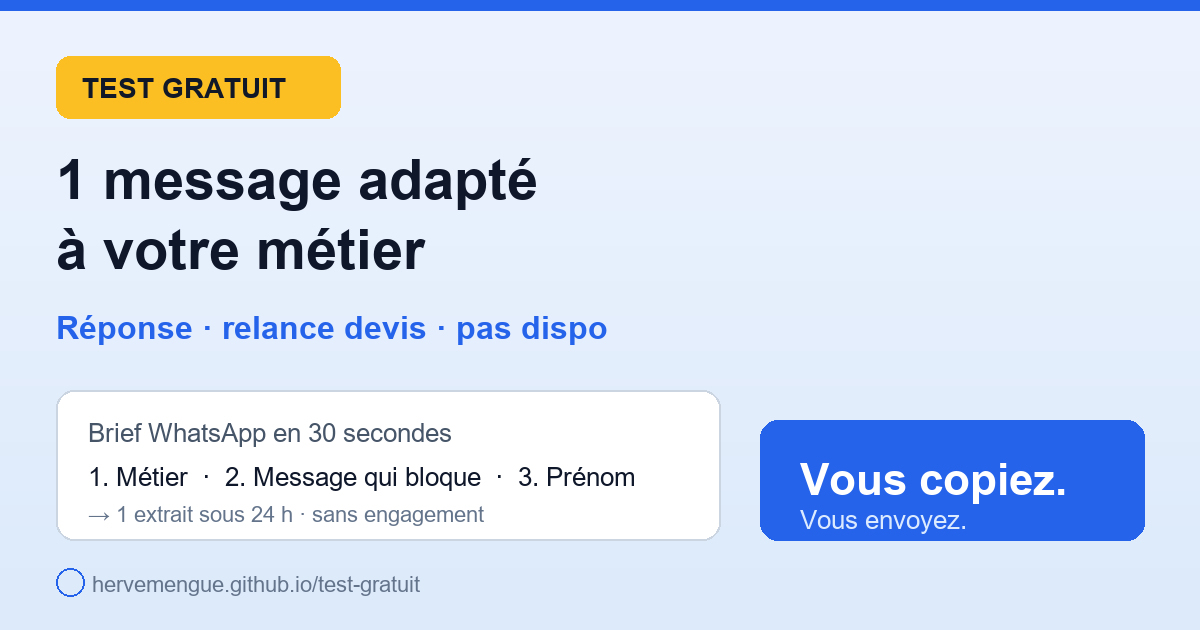
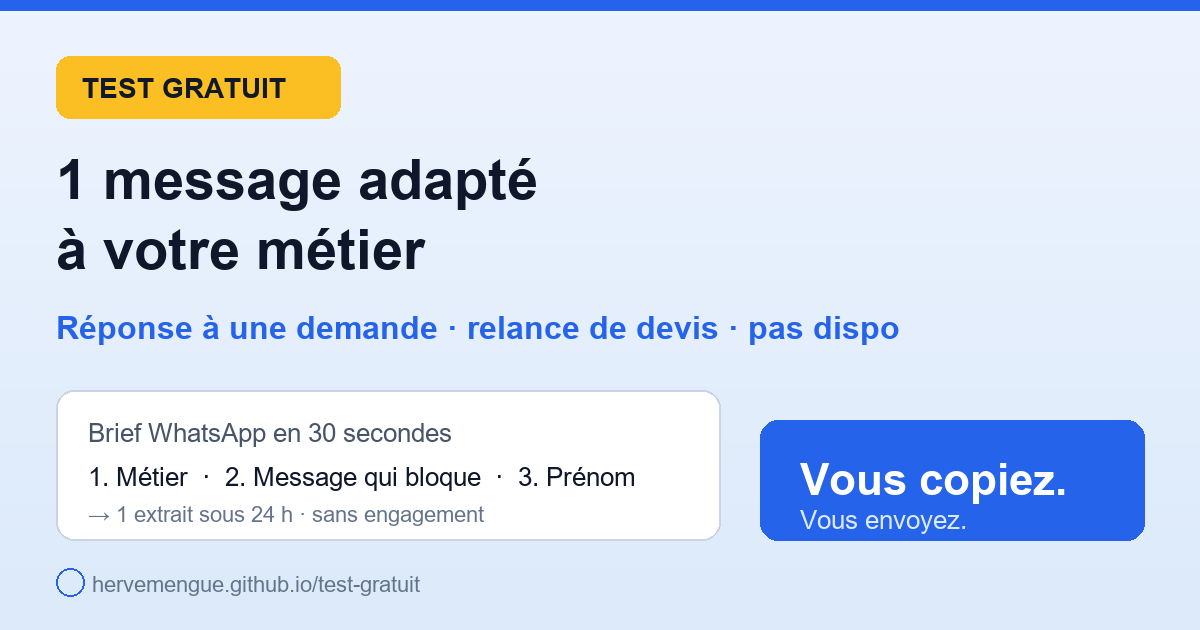
SEO Google: meta og/twitter, pages metiers, demos, GBP-ready vocabulaire.
Relance de devis et reponse a une demande de devis partout (mentions, relance page, og image).

Changed region(s): [[0.1542, 0.5127, 0.7708, 0.5429]]

diff --git a/relance-devis-sans-reponse-artisan.html b/relance-devis-sans-reponse-artisan.html
@@ -10,10 +10,10 @@
     gtag('js', new Date());
     gtag('config', 'G-MN5ZZ8T2Q3');
   </script>
-  <title>Relancer un devis sans réponse — extrait artisan WhatsApp | France</title>
-  <meta name="description" content="Devis envoyé, pas de réponse ? Quand relancer, quoi éviter, et un extrait illustratif. Un exemple parmi tant d'autres — pack adapté après brief. France.">
+  <title>Relance de devis sans réponse — extrait artisan WhatsApp | France</title>
+  <meta name="description" content="Devis chiffré envoyé, pas de réponse ? Quand faire une relance de devis, quoi éviter, et un extrait illustratif. Pack adapté après brief. France.">
   <link rel="canonical" href="https://hervemengue.github.io/landing-herve/relance-devis-sans-reponse-artisan.html">
-  <meta property="og:title" content="Relancer un devis sans réponse — artisan">
+  <meta property="og:title" content="Relance de devis sans réponse — artisan">
   <meta property="og:description" content="Extrait de relance de devis — pas toute votre bibliothèque de messages.">
   <meta property="og:url" content="https://hervemengue.github.io/landing-herve/relance-devis-sans-reponse-artisan.html">
   <meta property="og:locale" content="fr_FR">
@@ -32,7 +32,7 @@
   {
     "@context": "https://schema.org",
     "@type": "Article",
-    "headline": "Relancer un devis sans réponse — artisan",
+    "headline": "Relance de devis sans réponse — artisan",
     "description": "Extrait illustratif pour relancer un client après envoi du devis.",
     "inLanguage": "fr-FR",
     "author": { "@type": "Person", "name": "Hervé Mengue" }

diff --git a/index.html b/index.html
@@ -16,7 +16,7 @@
   <meta property="og:type" content="website">
   <meta property="og:locale" content="fr_FR">
   <meta property="og:title" content="Ce soir vous savez quoi répondre — pack 49 € | Hervé">
-  <meta property="og:description" content="Indépendants et TPE — tous corps de métier : moins de charge sur les messages clients. Avant/après, pack en 24 h. Vous copiez, vous envoyez — pas de bot ni promesse magique.">
+  <meta property="og:description" content="Messages WhatsApp prêts : réponse à une demande de devis, relance de devis, pas dispo. Pack 5 textes en 24 h. Vous copiez, vous envoyez — pas de bot.">
   <meta property="og:url" content="https://hervemengue.github.io/landing-herve/">
   <meta property="og:site_name" content="Hervé — messages clients indépendants &amp; TPE">
   <meta property="og:image" content="https://hervemengue.github.io/landing-herve/og-image.png">
@@ -25,7 +25,7 @@
   <meta property="og:image:alt" content="Ce soir vous savez quoi répondre — messages clients pour indépendants et TPE, pack 49 euros">
   <meta name="twitter:card" content="summary_large_image">
   <meta name="twitter:title" content="Ce soir vous savez quoi répondre — pack 49 € | Hervé">
-  <meta name="twitter:description" content="Indépendants et TPE — tous corps de métier : moins de charge sur les messages clients. Avant/après, pack en 24 h. Vous envoyez vous-même — pas de bot.">
+  <meta name="twitter:description" content="Réponse à une demande de devis, relance de devis, pas dispo : 5 textes WhatsApp prêts en 24 h. Vous envoyez vous-même — pas de bot.">
   <meta name="twitter:image" content="https://hervemengue.github.io/landing-herve/og-image.png">
   <link rel="canonical" href="https://hervemengue.github.io/landing-herve/">
   <link rel="preconnect" href="https://fonts.googleapis.com">
@@ -1495,7 +1495,7 @@
 Toujours partant si vous voulez qu'on avance.
 Sinon, aucun souci — bonne continuation.</div>
         <div class="concret-list" aria-label="Situations couvertes">
-          <span>demande</span>
+          <span>demande entrante</span>
           <span>relance de devis</span>
           <span>retard</span>
           <span>avis</span>

diff --git a/test-gratuit.html b/test-gratuit.html
@@ -11,12 +11,12 @@
     gtag('config', 'G-MN5ZZ8T2Q3');
   </script>
   <title>Test gratuit — 1 message pour votre activité</title>
-  <meta name="description" content="Test gratuit : indiquez votre métier et recevez 1 message prêt à envoyer, adapté à votre activité. Sans engagement.">
+  <meta name="description" content="Test gratuit : métier + message qui bloque (réponse à une demande de devis, relance de devis, pas dispo). 1 extrait adapté sous 24 h. Sans engagement.">
   <link rel="canonical" href="https://hervemengue.github.io/landing-herve/test-gratuit.html">
   <meta property="og:type" content="website">
   <meta property="og:locale" content="fr_FR">
   <meta property="og:title" content="Test gratuit — 1 message pour votre activité">
-  <meta property="og:description" content="Brief WhatsApp en 30 secondes : métier + message qui bloque + prénom → 1 extrait adapté sous 24 h. Sans engagement.">
+  <meta property="og:description" content="Brief WhatsApp : métier + réponse à une demande de devis, relance de devis ou pas dispo → 1 extrait sous 24 h.">
   <meta property="og:url" content="https://hervemengue.github.io/landing-herve/test-gratuit.html">
   <meta property="og:site_name" content="Hervé — messages clients artisans &amp; TPE">
   <meta property="og:image" content="https://hervemengue.github.io/landing-herve/og-test-gratuit.png">

diff --git a/demo-electricien.html b/demo-electricien.html
@@ -5,7 +5,7 @@
   <meta name="viewport" content="width=device-width, initial-scale=1">
   
   <title>Démo Électricien — messages prêts</title>
-  <meta name="description" content="Messages prêts à copier — WhatsApp ou SMS.">
+  <meta name="description" content="Démo électricien : réponse à une demande de devis, relance de devis, retard, avis. Messages prêts à copier — WhatsApp ou SMS.">
   <link rel="preconnect" href="https://fonts.googleapis.com">
   <link rel="preconnect" href="https://fonts.gstatic.com" crossorigin>
   <link href="https://fonts.googleapis.com/css2?family=Plus+Jakarta+Sans:wght@600;700&family=Source+Sans+3:wght@400;600;700&display=swap" rel="stylesheet">

diff --git a/demo-menuisier.html b/demo-menuisier.html
@@ -5,7 +5,7 @@
   <meta name="viewport" content="width=device-width, initial-scale=1">
   
   <title>Démo Menuisier — messages prêts</title>
-  <meta name="description" content="Messages prêts à copier — WhatsApp ou SMS.">
+  <meta name="description" content="Démo menuisier : réponse à une demande de devis, relance de devis, retard, avis. Messages prêts à copier — WhatsApp ou SMS.">
   <link rel="preconnect" href="https://fonts.googleapis.com">
   <link rel="preconnect" href="https://fonts.gstatic.com" crossorigin>
   <link href="https://fonts.googleapis.com/css2?family=Plus+Jakarta+Sans:wght@600;700&family=Source+Sans+3:wght@400;600;700&display=swap" rel="stylesheet">

diff --git a/demo-plombier.html b/demo-plombier.html
@@ -5,7 +5,7 @@
   <meta name="viewport" content="width=device-width, initial-scale=1">
   
   <title>Démo Plombier — messages prêts</title>
-  <meta name="description" content="Messages prêts à copier — WhatsApp ou SMS.">
+  <meta name="description" content="Démo plombier : réponse à une demande de devis, relance de devis, retard, avis. Messages prêts à copier — WhatsApp ou SMS.">
   <link rel="preconnect" href="https://fonts.googleapis.com">
   <link rel="preconnect" href="https://fonts.gstatic.com" crossorigin>
   <link href="https://fonts.googleapis.com/css2?family=Plus+Jakarta+Sans:wght@600;700&family=Source+Sans+3:wght@400;600;700&display=swap" rel="stylesheet">

diff --git a/mentions-legales.html b/mentions-legales.html
@@ -56,7 +56,7 @@
 
     <section class="card" aria-labelledby="activite">
       <h2 id="activite">Activité</h2>
-      <p>Services d'accompagnement, de conseil et de préparation de messages / relances pour aider les indépendants, freelances et petites entreprises à répondre plus vite et plus clairement à leurs clients.</p>
+      <p>Services d'accompagnement, de conseil et de préparation de messages clients (réponse à une demande de devis, relance de devis) pour aider les indépendants, freelances et petites entreprises à répondre plus vite et plus clairement.</p>
       <p class="small">Les prestations ne garantissent pas un chiffre d'affaires, un rendez-vous ou une vente. Les résultats dépendent notamment de l'offre, du marché, du suivi et de l'exécution côté client.</p>
     </section>
 

diff --git a/modele-relance-client-j2.html b/modele-relance-client-j2.html
@@ -11,7 +11,7 @@
     gtag('config', 'G-MN5ZZ8T2Q3');
   </script>
   <title>Relance de devis J+2 — extrait WhatsApp artisan | France</title>
-  <meta name="description" content="Extrait de relance 2 jours après envoi du devis. Un exemple parmi tant d'autres — pack 5 textes adaptés après brief. France.">
+  <meta name="description" content="Extrait de relance de devis J+2, 2 jours après envoi du devis chiffré. Un exemple parmi tant d'autres — pack 5 textes adaptés après brief. France.">
   <link rel="canonical" href="https://hervemengue.github.io/landing-herve/modele-relance-client-j2.html">
   <meta property="og:title" content="Relance de devis J+2 — artisan">
   <meta property="og:url" content="https://hervemengue.github.io/landing-herve/modele-relance-client-j2.html">

diff --git a/modele-reponse-devis-couvreur.html b/modele-reponse-devis-couvreur.html
@@ -6,7 +6,7 @@
   <script async src="https://www.googletagmanager.com/gtag/js?id=G-MN5ZZ8T2Q3"></script>
   <script>window.dataLayer=window.dataLayer||[];function gtag(){dataLayer.push(arguments);}gtag('js',new Date());gtag('config','G-MN5ZZ8T2Q3');</script>
   <title>Exemple message client — couvreur — WhatsApp | France</title>
-  <meta name="description" content="Extrait pour répondre à une demande couvreur. Un exemple parmi tant d'autres — pack adapté après brief. France.">
+  <meta name="description" content="Extrait pour répondre à une demande de devis couvreur. Un exemple parmi tant d'autres — pack adapté après brief. France.">
   <link rel="canonical" href="https://hervemengue.github.io/landing-herve/modele-reponse-devis-couvreur.html">
   <meta property="og:title" content="Exemple message couvreur — WhatsApp">
   <meta property="og:url" content="https://hervemengue.github.io/landing-herve/modele-reponse-devis-couvreur.html">

diff --git a/modele-reponse-devis-electricien.html b/modele-reponse-devis-electricien.html
@@ -6,7 +6,7 @@
   <script async src="https://www.googletagmanager.com/gtag/js?id=G-MN5ZZ8T2Q3"></script>
   <script>window.dataLayer=window.dataLayer||[];function gtag(){dataLayer.push(arguments);}gtag('js',new Date());gtag('config','G-MN5ZZ8T2Q3');</script>
   <title>Exemple message client — électricien — WhatsApp | France</title>
-  <meta name="description" content="Extrait pour répondre à une demande électricien. Un exemple parmi tant d'autres — pack adapté après brief. France.">
+  <meta name="description" content="Extrait pour répondre à une demande de devis électricien. Un exemple parmi tant d'autres — pack adapté après brief. France.">
   <link rel="canonical" href="https://hervemengue.github.io/landing-herve/modele-reponse-devis-electricien.html">
   <meta property="og:title" content="Exemple message électricien — WhatsApp">
   <meta property="og:url" content="https://hervemengue.github.io/landing-herve/modele-reponse-devis-electricien.html">

diff --git a/modele-reponse-devis-menuisier.html b/modele-reponse-devis-menuisier.html
@@ -6,7 +6,7 @@
   <script async src="https://www.googletagmanager.com/gtag/js?id=G-MN5ZZ8T2Q3"></script>
   <script>window.dataLayer=window.dataLayer||[];function gtag(){dataLayer.push(arguments);}gtag('js',new Date());gtag('config','G-MN5ZZ8T2Q3');</script>
   <title>Exemple message client — menuisier — WhatsApp | France</title>
-  <meta name="description" content="Extrait pour répondre à une demande menuisier. Un exemple parmi tant d'autres — pack adapté après brief. France.">
+  <meta name="description" content="Extrait pour répondre à une demande de devis menuisier. Un exemple parmi tant d'autres — pack adapté après brief. France.">
   <link rel="canonical" href="https://hervemengue.github.io/landing-herve/modele-reponse-devis-menuisier.html">
   <meta property="og:title" content="Exemple message menuisier — WhatsApp">
   <meta property="og:url" content="https://hervemengue.github.io/landing-herve/modele-reponse-devis-menuisier.html">

diff --git a/modele-reponse-devis-plombier.html b/modele-reponse-devis-plombier.html
@@ -6,7 +6,7 @@
   <script async src="https://www.googletagmanager.com/gtag/js?id=G-MN5ZZ8T2Q3"></script>
   <script>window.dataLayer=window.dataLayer||[];function gtag(){dataLayer.push(arguments);}gtag('js',new Date());gtag('config','G-MN5ZZ8T2Q3');</script>
   <title>Exemple message client — plombier — WhatsApp | France</title>
-  <meta name="description" content="Extrait illustratif pour répondre à une demande plombier. Un exemple parmi tant d'autres — pack 5 textes adaptés après brief. France.">
+  <meta name="description" content="Extrait illustratif pour répondre à une demande de devis plombier. Un exemple parmi tant d'autres — pack 5 textes adaptés après brief. France.">
   <link rel="canonical" href="https://hervemengue.github.io/landing-herve/modele-reponse-devis-plombier.html">
   <meta property="og:title" content="Exemple message plombier — WhatsApp">
   <meta property="og:url" content="https://hervemengue.github.io/landing-herve/modele-reponse-devis-plombier.html">